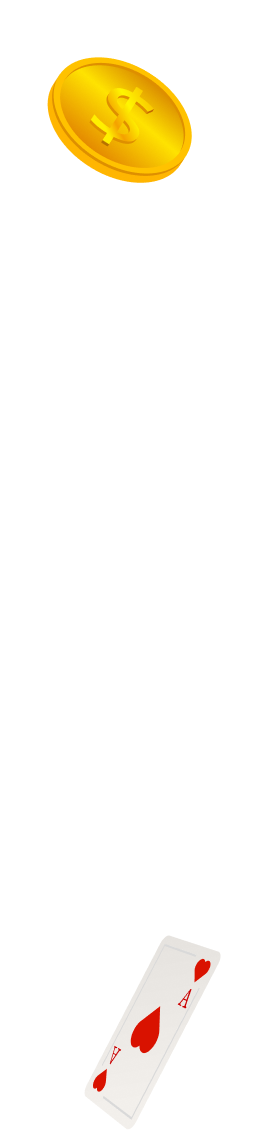
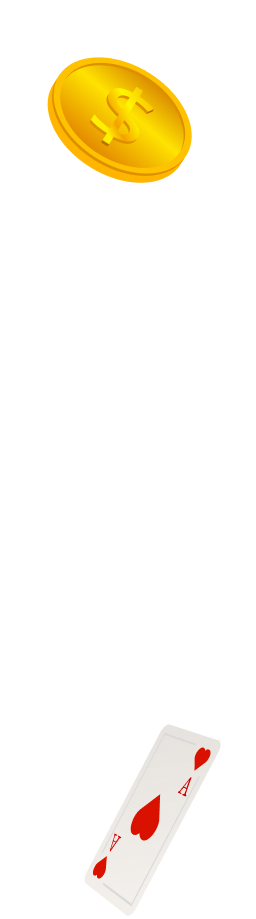
page-1 fixed

Changed region(s): [[0.1875, 0.0305, 0.75, 0.2133], [0.3438, 0.7922, 0.875, 0.975], [0.6562, 0.914, 0.6875, 0.9445]]

diff --git a/lpv1/styles/style.css b/lpv1/styles/style.css
@@ -895,12 +895,35 @@ body {
   .promo__title {
     min-height: 164px;
     font-size: 23px;
-    /* padding: 24px 236px 0; */
+    padding-top: 26px;
   }
 
   .promo__image {
+    position: relative;
     transform: translate(35px, -42px);
     margin-bottom: 55px;
+  }
+
+  .promo__image:before {
+    content: "";
+    width: 104px;
+    height: 120px;
+    background-image: url(../images/promo-coins-left-mob.png);
+    background-repeat: no-repeat;
+    position: absolute;
+    bottom: -61px;
+    left: -84px;
+  }
+
+  .promo__image:after {
+    content: "";
+    width: 89px;
+    height: 113px;
+    background-image: url(../images/promo-coins-right-mob.png);
+    background-repeat: no-repeat;
+    position: absolute;
+    bottom: -125px;
+    right: -24px;
   }
 
   .promo__text {
@@ -1265,12 +1288,24 @@ body {
   }
 
   .games__slots_topImg {
+    position: relative;
     margin: 0 auto;
     margin-bottom: -5px;
   }
   .games__slots_topImg img {
     max-width: fit-content;
     transform: translateY(-13px);
+  }
+
+  .games__slots_topImg:before {
+    content: "";
+    width: 52px;
+    height: 56px;
+    background-image: url(../images/slots_coin_left_mob.png);
+    background-repeat: no-repeat;
+    position: absolute;
+    top: -61px;
+    left: -10px;
   }
 
   .games__slots_bg {
@@ -2066,7 +2101,7 @@ body {
   background-repeat: no-repeat;
   background-position: center;
   min-height: 3147px;
-  padding-top: 652px;
+  padding-top: 646px;
   margin-top: -866px;
   margin-bottom: -406px;
 }
@@ -2308,7 +2343,7 @@ body {
 /* JACKPOT SLIDER */
 
 .jackpot-sl {
-  padding: 209px 0 80px;
+  padding: 203px 0 80px;
   background: #000000;
 }
 
@@ -2368,7 +2403,7 @@ body {
   position: absolute;
   width: 279px;
   height: 638px;
-  top: -264px;
+  top: -506px;
   right: -317px;
 }
 
@@ -2591,17 +2626,17 @@ body {
   .jackpot-sl__subtitle-2:before {
     content: "";
     width: 140px;
-    height: 430px;
+    height: 449px;
     background-image: url(../images/jackpot_coins_left_mob.png);
-    top: -437px;
-    left: -131px;
+    top: -448px;
+    left: -121px;
   }
 
   .jackpot-sl__subtitle-2:after {
     width: 220px;
-    height: 428px;
+    height: 561px;
     background-image: url(../images/jackpot_coins_right_mob.png);
-    top: -220px;
+    top: -349px;
     right: -153px;
   }
 
@@ -3015,6 +3050,17 @@ body {
 
   .banner__wrapper {
     position: relative;
+  }
+
+  .banner__wrapper:after {
+    content: "";
+    width: 220px;
+    height: 428px;
+    background-image: url(../images/banner-chips-left-tab.png);
+    background-repeat: no-repeat;
+    position: absolute;
+    bottom: -326px;
+    right: -33px;
   }
 
   .banner__ribbon {

diff --git a/lpv1/index.html b/lpv1/index.html
@@ -118,7 +118,7 @@
           </div>
           <a href="#" class="promo__button"
             >Join now and get up to<br />
-            a $2,000 welcome bonus.</a
+            a $2,000 welcome bonus</a
           >
           <div class="promo__remark">
             *Gambling laws vary from one jurisdiction to another. Before
@@ -588,10 +588,7 @@
       <div class="banner__container">
         <div class="banner__wrapper">
           <div class="banner__ribbon desktop-only">
-            <img
-              src="images/banner_ribbon_desk.png"
-              alt="banner ribbon"
-            />
+            <img src="images/banner_ribbon_desk.png" alt="banner ribbon" />
           </div>
           <div class="banner__ribbon no-mobile no-desktop">
             <img src="images/banner_ribbon_tab.png" alt="banner ribbon" />
